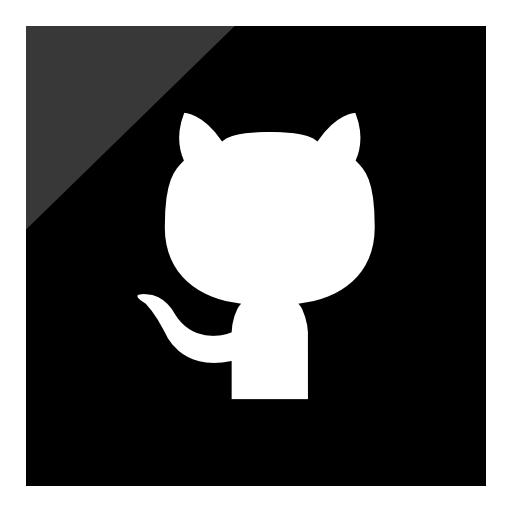
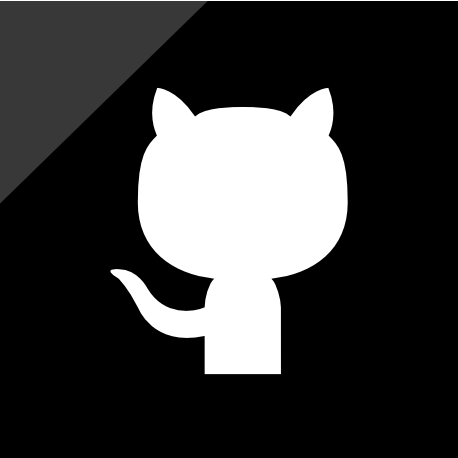
float of nav bar

Changed region(s): [[0.0, 0.0, 1.0, 1.0], [0.2445, 0.1834, 0.7642, 0.8253]]

diff --git a/index.html b/index.html
@@ -8,47 +8,49 @@
 </head>
 
 <body>
-    <!-- Background Image can't seem to get this to download correclty the image is too small assets/images/pw_maze_white.png-->
-    <img src="#" alt="BackgroungIMG">
+    <!-- Background Image can't seem to get this to download correclty the image is too small assets/images/pw_maze_white.png
+    <img src="#" alt="BackgroundIMG">
+    -->
     <!-- top nav bar -->
     <header>
-        <div>
-            <h1 class="nameTitle"><a href="index.html">Megan M. Jacobs</a></h1></div>
-        <div>
-            <p class="mainText" ><a href="index.html">About</a></p>
-            <p class="verticalLines">|</p>
-            <p class="mainText" ><a href="portfolio.html">Portfolio</a></p>
-            <p class="verticalLines">|</p>
-            <p class="mainText" ><a href="contact.html">Contact</a></p>
+        <div class="constrainedHeader">
+            <div>
+                <h1 class="nameTitle"><a href="index.html">Megan M. Jacobs</a></h1></div>
+            <div>
+                <p class="mainText nav"><a href="contact.html">Contact</a></p>
+                <p class="verticalLines">|</p>
+                <p class="mainText nav"><a href="portfolio.html">Portfolio</a></p>
+                <p class="verticalLines">|</p>
+                <p class="mainText nav"><a href="index.html">About</a></p>
+            </div>
         </div>
     </header>
-    
-        <!-- About Me box -->
-        <div class="bodyBox">
-            <h1 class="bodyTitle">About Me</h1>
-            <p class="">--------------------</p>
-            <div><img  class="profileIMG" src="assets/images/profileimage.jpg" alt="ProfileIMG">
-                <p class="mainText">My name is Megan M. Jacobs, I am currently a Central Florida based student on track to become a full stack web developer through a UCF intensive program. In 2016 I graduated with a bachelor’s degree in philosophy with a concentration in phenomenology and aesthetics, and a minor in anthropology with a focus on cultural studies.
-                    <br>
-                    <br>This varied background in the study of human experience enriches my creative process. I find that embracing knowledge gleaned through an inquizitive mind facilitates evolution through continual dedication. I look forward to this journey into coding and where it may lead me! </p>
-            </div>
+    <!-- About Me box -->
+    <div class="">
+        <h1 class="bodyTitle">About Me</h1>
+        <p class="">--------------------</p>
+        <div><img class="profileIMG" src="assets/images/profileimage.jpg" alt="ProfileIMG">
+            <p class="mainText">My name is Megan M. Jacobs, I am currently a Central Florida based student on track to become a full stack web developer through a UCF intensive program. In 2016 I graduated with a bachelor’s degree in philosophy with a concentration in phenomenology and aesthetics, and a minor in anthropology with a focus on cultural studies.
+                <br>
+                <br>This varied background in the study of human experience enriches my creative process. I find that embracing knowledge gleaned through an inquizitive mind facilitates evolution through continual dedication. I look forward to this journey into coding and where it may lead me! </p>
         </div>
-        <!-- Connect with Me box -->
-        <div class="connect">
-            <div>
-                <h1>Connect with Me</h1></div>
-            <p>--------------------</p>
-            <!-- Icons -->
-            <div>
+    </div>
+    <!-- Connect with Me box -->
+    <div class="connect">
+        <div>
+            <h1>Connect with Me</h1></div>
+        <p>--------------------</p>
+        <!-- Icons -->
+        <div>
             <!-- linter saying i need an alt attribte for the img tags but then when i add it, the linter says it's unneccesary? -->
-                <a href="https://github.com/mjay13"><img class="socialIcons" alt="GitHubIcon" src="assets/images/GitHubIcon.png"></a>
-                <a href="https://www.linkedin.com/in/mjay13/"><img class="socialIcons" alt="LinkdinIcon" src="assets/images/LinkdinIcon.png"></a>
-                <a href="https://meta.stackexchange.com/users/364793/mjay?tab=profile"><img class="socialIcons" alt="StackOverflowIcon" src="assets/images/StackOverflowIcon.png"></a>
-            </div>
+            <a href="https://github.com/mjay13"><img class="socialIcons" alt="GitHubIcon" src="assets/images/GitHubIcon.png"></a>
+            <a href="https://www.linkedin.com/in/mjay13/"><img class="socialIcons" alt="LinkdinIcon" src="assets/images/LinkdinIcon.png"></a>
+            <a href="https://meta.stackexchange.com/users/364793/mjay?tab=profile"><img class="socialIcons" alt="StackOverflowIcon" src="assets/images/StackOverflowIcon.png"></a>
         </div>
-        <footer>
-            <p>&copy; 2017 Megan M. Jacobs</p>
-        </footer>
+    </div>
+    <footer class="clear">
+        <p>&copy; 2017 Megan M. Jacobs</p>
+    </footer>
 </body>
 
 </html>

diff --git a/assets/css/style.css b/assets/css/style.css
@@ -1,16 +1,5 @@
 /* Instruction Details
 
-Teal color (used for headings and backgrounds): #4aaaa5
-Regular font color (used for paragraphs and all text besides the headings): #777777
-Main header background color: #ffffff
-Main header border color: #cccccc
-Footer background color: #666666
-Main content background color: #ffffff
-Main content border color: #dddddd
-Fonts:
-
-For heading fonts use font-family: 'Georgia', Times, Times New Roman, serif;.
-For all other fonts use 'Arial', 'Helvetica Neue', Helvetica, sans-serif;
 
 The entire content area is 960px wide.
 The main section content is 650px wide.
@@ -18,123 +7,209 @@ The sidebar is 270px wide.
 
 */
 
-/* ----------General----------- */
 
+/* ----------General----------- */
 
 
 /* Background Image */
 
+
 /* Header */
 
 header {
-	background-color: #ffffff;
-
+    background-color: #ffffff;
 }
+
+
+
+
 
 /* Font Specifications */
 
 h1 {
-	font-family: 'Georgia', Times, Times New Roman, serif;
+    font-family: 'Georgia', Times, Times New Roman, serif;
 }
 
 p {
-	font-family: 'Arial', 'Helvetica Neue', Helvetica, sans-serif;
+    font-family: 'Arial', 'Helvetica Neue', Helvetica, sans-serif;
 }
 
 .mainText {
-	color: #777777;
-	}
+    color: #777777;
+}
 
 .verticalLines {
-	color: #dddddd;
+    color: #dddddd;
+    height: 25px;
+    width: 25px;
+
+    float: right;
 }
 
-.bigLine {
+.bigLine {}
 
-}
+.connectLine {}
 
-.connectLine {
 
-}
+
+
 
 
 /* Title Name */
+
 .nameTitle {
-	background-color: #4aaaa5;
-	color: #ffffff;
-	}
+    background-color: #4aaaa5;
+    color: #ffffff;
+    width: 330px;
+    height: 50px;
+    text-align: center;
+    padding-top: 10px;
+    float: left;
+    vertical-align: middle;
+}
+
+
+
+
 
 
 
 /* Nav */
 
+.nav {
+    width: 75px;
+    height: 30px;
+    float: right;
+}
+
+
+
+
 /* Placement of Body */
 
 .body {
-	width: 650px;
+    width: 650px;
 }
+
+
+
+
 
 /* Body Title - About Me, Portfolio, Contact */
 
-.bodyTitle {
-	color: #4aaaa5;
+.constrainedHeader {
+    width: 650px;
 }
+
+.bodyTitle {
+    color: #4aaaa5;
+    width: 200px;
+}
+
+
+
+
 
 /* Connect with Me */
 
 .connect {
-	background-color: #ffffff;
-	color: #4aaaa5;
-	border: solid;
-	border-color: #dddddd;
-	padding: 20px;
+    background-color: #ffffff;
+    color: #4aaaa5;
+    border: solid;
+    border-color: #dddddd;
+    padding: 20px;
+    border-width: 2px;
+    border-radius: 2px;
+    width: 300px;
+    height: 250px;
 }
+
+
+
+
 
 /* Social Icons */
 
 .socialIcons {
-	width: 20px;
-	height: 20px;
+    width: 75px;
+    height: 75px;
+    
 }
+
+
+
+
 
 /* Footer */
 
 footer {
-	background-color: #666666;
-	width: 960px;
-	color: #ffffff;
-	text-align: center;
-	font-weight: /* make thinner*/;
-	border-top: 10px #4aaaa5;
-	
+    background-color: #666666;
+    width: 960px;
+    color: #dddddd;
+    text-align: center;
+    border-top: 10px #4aaaa5;
+    height: 100px;
+    padding-top: 30px;
 }
+
+.clear::after {
+    content: "";
+    display: blcok;
+    clear: both;
+}
+
+
+
 
 /* Anchors */
 
-a, a:visited, a:hover, a:active {
-	text-decoration: none !important;
-	color: inherit;
+a,
+a:visited,
+a:hover,
+a:active {
+    text-decoration: none !important;
+    color: inherit;
 }
 
+
+
+
+
+
+
+
 /* -----------Specifics---------- */
+
 
 /* About Me */
 
 .bodyBox {
-	border: solid;
-	border-color: #dddddd;
-	padding: 20px;
+    border: solid;
+    border-color: #dddddd;
+    padding: 20px;
+    border-width: 2px;
+    border-radius: 2px;
+    width: 400px;
+    height: 350px;
+    margin: 10px;
 }
+
+
+
+
 
 /* Profile Image */
 
+
 /* Contact */
 
+
 /* Portfolio */
+
 
 /* Rezise Images */
 
 .profileIMG {
-	width: 50px;
-	height: 50px;
+    width: 250px;
+    height: 250px;
 }
